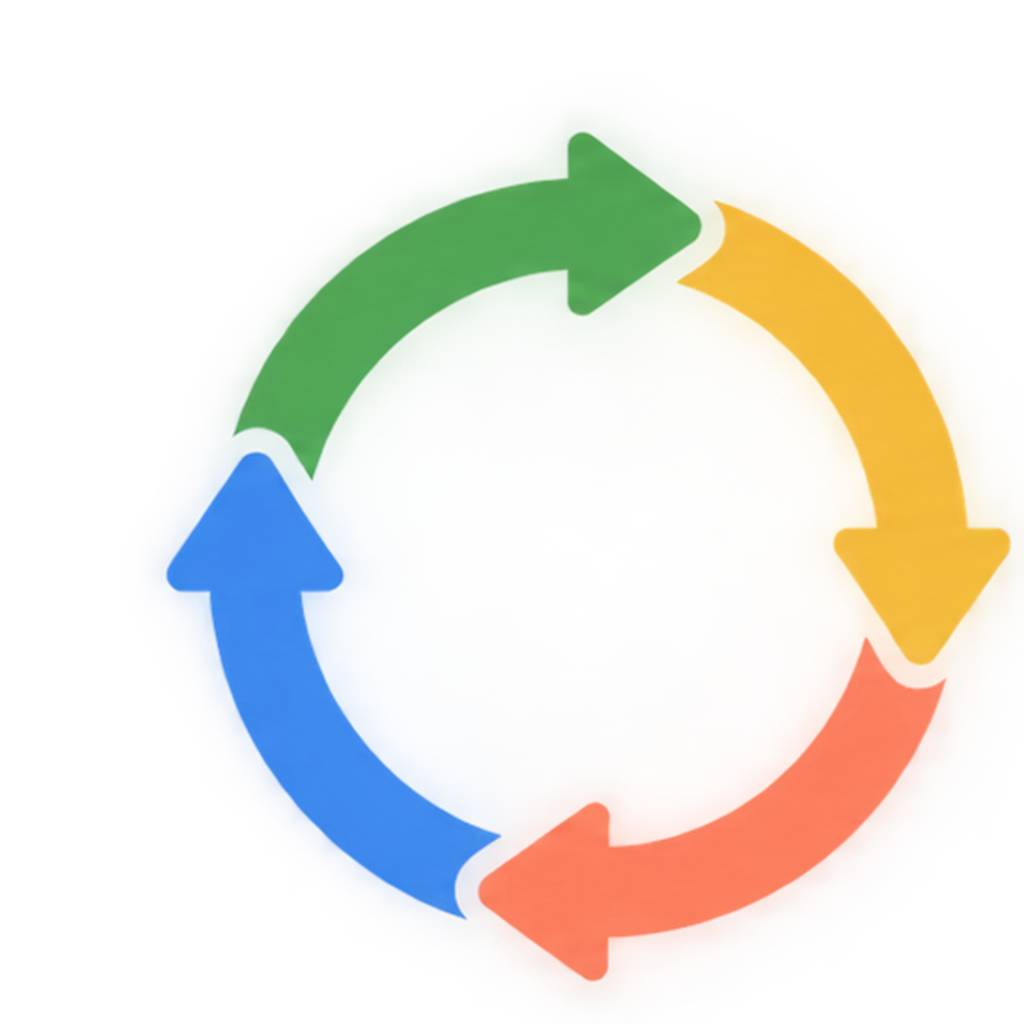
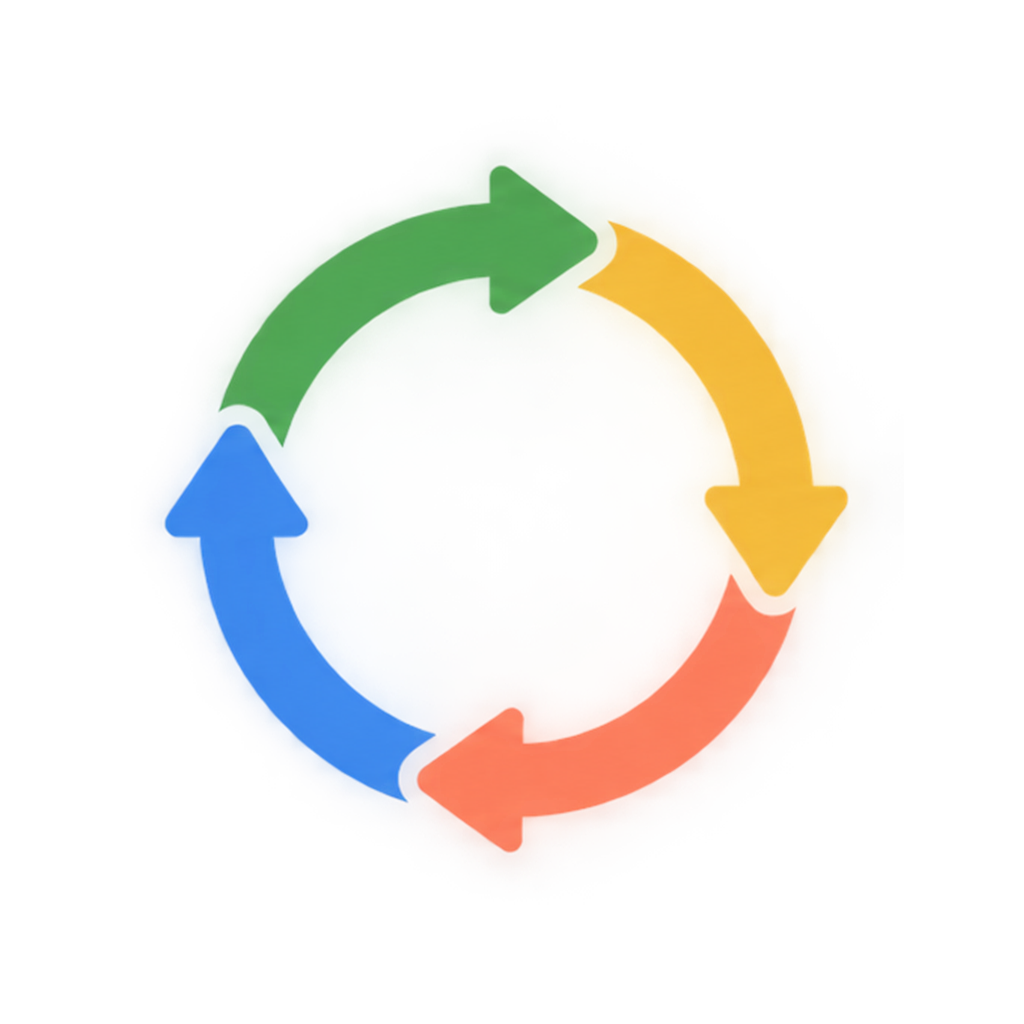
Centrera logotypen

Changed region(s): [[0.1562, 0.125, 1.0, 0.9688]]

diff --git a/sw.js b/sw.js
@@ -1,4 +1,4 @@
-const CACHE = 'gooddaily-v3';
+const CACHE = 'gooddaily-v4';
 const ASSETS = ['./', './index.html', './styles.css', './app.js', './manifest.webmanifest', './gooddaily_logo.png', './gooddaily_home_icon.png'];
 self.addEventListener('install', event => event.waitUntil(caches.open(CACHE).then(cache => cache.addAll(ASSETS)).then(() => self.skipWaiting())));
 self.addEventListener('activate', event => event.waitUntil(caches.keys().then(keys => Promise.all(keys.filter(key => key !== CACHE).map(key => caches.delete(key)))).then(() => self.clients.claim())));
